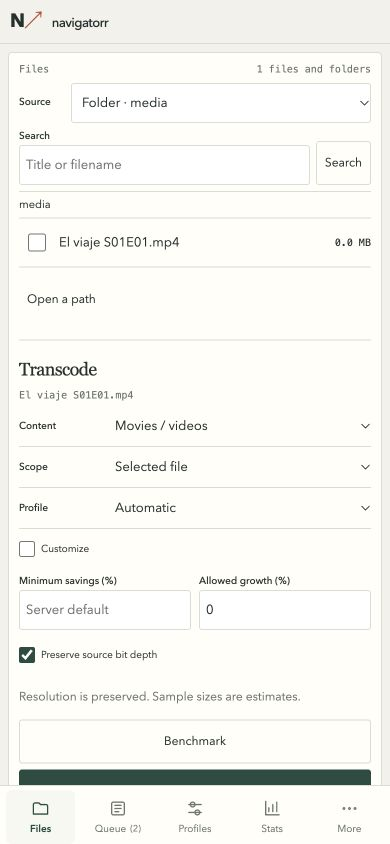
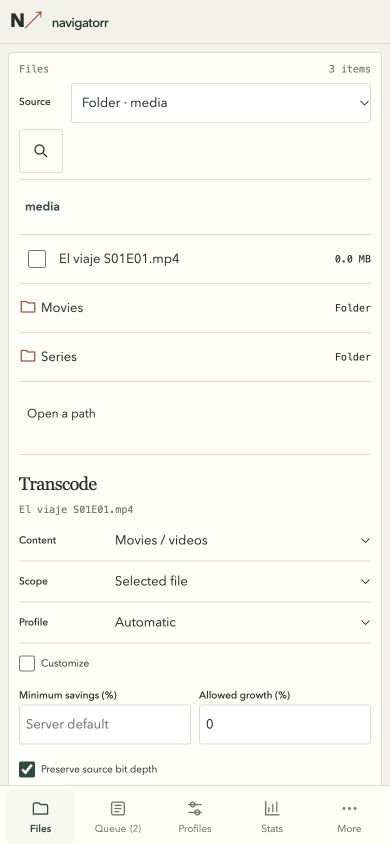
Make folder browsing primary and compact dialog actions

diff --git a/maintenanceui/assets/app.js b/maintenanceui/assets/app.js
@@ -63,6 +63,7 @@ function actionIcon(label) {
     "Keep originals": "M5 4h14v16H5ZM8 8h8M8 12h8",
     "Pause batch": "M8 4v16M16 4v16",
     "Resume batch": "M7 4l13 8-13 8Z",
+    Folder: "M3 6h7l2 2h9v12H3Z",
   };
   if (!paths[label]) return null;
   const svg = document.createElementNS("http://www.w3.org/2000/svg", "svg");
@@ -434,6 +435,8 @@ function resetLibrary() {
   $("path").value = "";
   $("back").hidden = true;
   $("selection-title").textContent = "Choose a movie or series";
+  $("selection-title").hidden = false;
+  $("folder-breadcrumbs").hidden = true;
   $("scope").value = "file";
   controls();
 }
@@ -457,6 +460,13 @@ $("back").addEventListener("click", () => {
 $("search-button").addEventListener("click", () => {
   state.libraryOffset = 0;
   safe(loadLibrary);
+});
+$("toggle-library-search").addEventListener("click", () => {
+  const open = $("library-search-label").hidden;
+  $("library-search-label").hidden = !open;
+  $("search-button").hidden = !open;
+  $("toggle-library-search").hidden = open;
+  if (open) $("search").focus();
 });
 $("search").addEventListener("keydown", (e) => {
   if (e.key === "Enter") {
@@ -495,6 +505,37 @@ function clearFileSelection() {
   state.fileService = null;
   controls();
 }
+async function navigateFolder(path) {
+  state.folder = path;
+  state.folderSelected = new Set();
+  state.libraryOffset = 0;
+  $("search").value = "";
+  clearFileSelection();
+  await loadFolder();
+}
+function folderBreadcrumbs(root, path) {
+  const host = $("folder-breadcrumbs");
+  host.hidden = false;
+  $("selection-title").hidden = true;
+  host.replaceChildren();
+  const parts =
+    path === root
+      ? []
+      : path.slice(root.replace(/\/$/, "").length + 1).split("/");
+  let current = root;
+  const add = (label, target, last) => {
+    const b = button(label, () => navigateFolder(target), "breadcrumb-button");
+    b.title = target;
+    if (last) b.setAttribute("aria-current", "location");
+    host.append(b);
+  };
+  add(root.split("/").filter(Boolean).pop() || "/", root, parts.length === 0);
+  parts.forEach((part, index) => {
+    current = `${current.replace(/\/$/, "")}/${part}`;
+    host.append(node("span", "/", "breadcrumb-separator"));
+    add(part, current, index === parts.length - 1);
+  });
+}
 async function loadFolder(revision = ++state.libraryRevision, more = false) {
   state.libraryLoading = true;
   if (!more) {
@@ -520,8 +561,10 @@ async function loadFolder(revision = ++state.libraryRevision, more = false) {
         ? root.split("/").pop() || root
         : page.path.slice(root.length + 1);
     $("selection-title").title = page.path;
+    folderBreadcrumbs(root, page.path);
     $("back").hidden = state.folder === root;
-    $("library-total").textContent = `${page.total} files and folders`;
+    $("library-total").textContent =
+      `${page.total} item${page.total === 1 ? "" : "s"}`;
     if (!more) $("library-items").replaceChildren();
     for (const file of page.items) {
       const row = node("div", "", "media-row");
@@ -541,17 +584,17 @@ async function loadFolder(revision = ++state.libraryRevision, more = false) {
         const checkLabel = node("label", "", "media-check");
         checkLabel.append(check);
         row.append(checkLabel);
-      } else row.append(node("span", "↳", "media-icon"));
+      } else {
+        const icon = node("span", "", "media-icon");
+        icon.append(actionIcon("Folder") || node("span", "↳"));
+        row.append(icon);
+      }
       row.append(
         button(
           file.path.split("/").pop(),
           async () => {
             if (file.is_dir) {
-              state.folder = file.path;
-              state.folderSelected.clear();
-              state.libraryOffset = 0;
-              clearFileSelection();
-              await loadFolder();
+              await navigateFolder(file.path);
             } else {
               $("path").value = file.path;
               state.file = file;
@@ -1295,9 +1338,10 @@ async function refreshDetail() {
     ),
     node("span", names[job.status] || job.status, `badge ${job.status}`),
     node("p", job.error || job.waiting_reason || job.progress, "muted"),
-    telemetry(job),
   );
-  if (job.batch) summary.append(node("p", batchCounts(job.batch), "muted"));
+  if (job.worker) summary.append(telemetry(job));
+  if (job.batch)
+    summary.append(node("p", batchCounts(job.batch, true), "muted"));
   if (job.source_path) summary.append(node("p", job.source_path, "metadata"));
   if (job.promotion)
     summary.append(
@@ -1345,6 +1389,8 @@ async function loadBatchItems(id, revision) {
     `${response.items?.length || 0} of ${response.total} files`;
   $("batch-items-prev").disabled = offset === 0;
   $("batch-items-next").disabled = !response.has_more;
+  $("batch-items-prev").hidden = offset === 0 && !response.has_more;
+  $("batch-items-next").hidden = offset === 0 && !response.has_more;
 }
 $("batch-items-prev").addEventListener("click", () => {
   state.batchItemsOffset = Math.max(0, state.batchItemsOffset - 25);

diff --git a/maintenanceui/assets/index.html b/maintenanceui/assets/index.html
@@ -140,16 +140,70 @@
               </div>
               <div class="toolbar">
                 <label>Source<select id="service"></select></label
-                ><label class="grow"
+                ><label id="library-search-label" class="grow" hidden
                   >Search<input
                     id="search"
                     type="search"
                     placeholder="Title or filename" /></label
-                ><button id="search-button">Search</button>
+                ><button
+                  id="search-button"
+                  class="icon-button"
+                  aria-label="Search files"
+                  title="Search"
+                  hidden
+                >
+                  <svg
+                    viewBox="0 0 24 24"
+                    fill="none"
+                    stroke="currentColor"
+                    stroke-width="1.7"
+                    aria-hidden="true"
+                  >
+                    <circle cx="10" cy="10" r="6" />
+                    <path d="m15 15 5 5" />
+                  </svg></button
+                ><button
+                  id="toggle-library-search"
+                  class="icon-button"
+                  aria-label="Show search"
+                  title="Search"
+                  aria-expanded="false"
+                >
+                  <svg
+                    viewBox="0 0 24 24"
+                    fill="none"
+                    stroke="currentColor"
+                    stroke-width="1.7"
+                    aria-hidden="true"
+                  >
+                    <circle cx="10" cy="10" r="6" />
+                    <path d="m15 15 5 5" />
+                  </svg>
+                </button>
               </div>
               <div class="breadcrumbs">
-                <button id="back" class="quiet" hidden>← Back</button
+                <button
+                  id="back"
+                  class="icon-button quiet"
+                  aria-label="Parent folder"
+                  title="Back"
+                  hidden
+                >
+                  <svg
+                    viewBox="0 0 24 24"
+                    fill="none"
+                    stroke="currentColor"
+                    stroke-width="1.7"
+                    aria-hidden="true"
+                  >
+                    <path d="m13 6-6 6 6 6M7 12h13" />
+                  </svg></button
                 ><span id="selection-title">Choose a folder or title</span>
+                <nav
+                  id="folder-breadcrumbs"
+                  aria-label="Folder path"
+                  hidden
+                ></nav>
               </div>
               <div id="library-items" class="library-items"></div>
               <div class="list-footer">

diff --git a/maintenanceui/assets/app.css b/maintenanceui/assets/app.css
@@ -358,8 +358,8 @@ summary {
   margin: 12px 0;
 }
 .submit-actions button {
-  flex: 1;
-  min-width: 130px;
+  flex: 0 0 auto;
+  min-width: 0;
 }
 .job-row {
   display: grid;
@@ -514,7 +514,7 @@ dialog {
   background: var(--surface);
   color: var(--ink);
   border-radius: 5px;
-  width: min(1000px, 94vw);
+  width: min(680px, 94vw);
   max-height: 90vh;
   padding: 16px;
 }
@@ -1182,7 +1182,8 @@ footer {
   min-height: 32px;
 }
 .worker-progress {
-  max-width: 520px;
+  width: 100%;
+  min-width: 0;
 }
 .savings-dashboard {
   margin: 12px 0 18px;
@@ -1611,4 +1612,57 @@ textarea {
 }
 .login h1 {
   font-size: 22px;
+}
+
+dialog .submit-actions {
+  justify-content: flex-end;
+  margin: 12px 0 0;
+}
+dialog .submit-actions button {
+  flex: 0 0 auto;
+  width: auto;
+  min-width: 0;
+  min-height: 32px;
+  padding: 6px 10px;
+  font-size: 12px;
+}
+#batch-review pre {
+  padding: 12px;
+}
+@media (max-width: 600px), (pointer: coarse) {
+  dialog .submit-actions button {
+    min-height: 44px;
+  }
+}
+
+#folder-breadcrumbs {
+  display: flex;
+  align-items: center;
+  flex-wrap: wrap;
+  gap: 2px;
+  min-width: 0;
+}
+.breadcrumb-button {
+  padding: 4px 6px;
+  border: 0;
+  font-size: 12px;
+  color: var(--muted);
+  max-width: 100%;
+  overflow: hidden;
+  text-overflow: ellipsis;
+}
+.breadcrumb-button[aria-current] {
+  color: var(--forest);
+  font-weight: 600;
+}
+.breadcrumb-separator {
+  color: var(--muted);
+  font-size: 11px;
+}
+.library-browser > .toolbar > label:first-child {
+  flex: 1;
+}
+.media-icon svg {
+  width: 18px;
+  height: 18px;
 }

diff --git a/docs/MAINTENANCE_UI.md b/docs/MAINTENANCE_UI.md
@@ -24,7 +24,7 @@ For standalone use, omit `auth_mode` (defaults to `token`) and configure exactly
 
 ## Mobile and PWA
 
-The mobile view opens on the queue, with fixed bottom navigation, compact savings and job telemetry, 44-pixel action targets (including landscape/tablet), compact 36-pixel form fields and safe-area spacing. Typography and spacing are deliberately dense: 13-pixel job titles, inline source/scope/profile rows and a single-line worker status/percentage. The original paper/forest colors and serif headings are retained. Zero-valued batch counters and redundant workflow steps move to detail; full source paths remain in job detail. File selection remains directly available in **Files**, and less common profile controls open in a typed settings dialog. Returning to the foreground refreshes monitoring without discarding the current prepared conversion. The browser is not the transcoding worker: backgrounding or closing the PWA leaves durable jobs on the server.
+The mobile view opens on the queue, with fixed bottom navigation, compact savings and job telemetry, 44-pixel action targets (including landscape/tablet), compact 36-pixel form fields and safe-area spacing. Typography and spacing are deliberately dense: 13-pixel job titles, inline source/scope/profile rows and a single-line worker status/percentage. The original paper/forest colors and serif headings are retained. Zero-valued batch counters and redundant workflow steps move to detail; full source paths remain in job detail. Progress bars span the full job row and dialog actions keep content-sized widths. File selection remains directly available in **Files**, and less common profile controls open in a typed settings dialog. Returning to the foreground refreshes monitoring without discarding the current prepared conversion. The browser is not the transcoding worker: backgrounding or closing the PWA leaves durable jobs on the server.
 
 The same origin exposes a standalone manifest, maskable 192/512 icons, an Apple touch icon and an **Install** button. Android browsers can offer their installation prompt; iPhone/iPad use Share → Add to Home Screen. Installation requires HTTPS (localhost is sufficient for development). A plain HTTP LAN address can still use the web interface, but does not provide the secure context required for the service worker.
 
@@ -32,7 +32,7 @@ The versioned service worker caches only the public HTML/CSS/JS/icons. API respo
 
 ## Workflow
 
-- Browse configured filesystem read roots directly. File sizes come from disk; folder navigation, search and continuous loading work without Sonarr/Radarr. Optional Series/Movies catalogs add metadata and library import associations, rather than defining the transcode source.
+- Browse configured filesystem read roots directly. File sizes come from disk; folder navigation with clickable breadcrumbs and continuous loading work without Sonarr/Radarr. Search is optional behind its icon. Optional Series/Movies catalogs add metadata and library import associations, rather than defining the transcode source.
 - Select a single file, marked videos, the videos in a folder, or its subfolders. Filesystem batch admission freezes an explicit `paths` list (up to 1000 videos), resolves allowed roots and deduplicates canonical paths. An oversized selection fails instead of silently truncating. Series catalogs also support a season, whole series and selected-file intersection, including shared multi-episode files encoded once.
 - Use a shared recipe, automatic selection or a per-job typed profile. The form covers x265 and VideoToolbox quality/bitrate, audio copy/compact, calibration, VMAF/SSIM, search values, samples, final validation, bit-depth preservation and size guardrails. Profiles exposes less common fields in a typed settings form; editing a shared profile preserves fields that are not changed.
 - Preview a batch, benchmark one file or enqueue a conversion. Admission returns immediately after the action and retry receipt are committed; the process-owned reconciler performs preflight and execution. Closing the browser has no effect. Restarting Navigatorr recovers pending actions. Repeating the same receipt, even after completion, returns the original action; changing its inputs is rejected.
